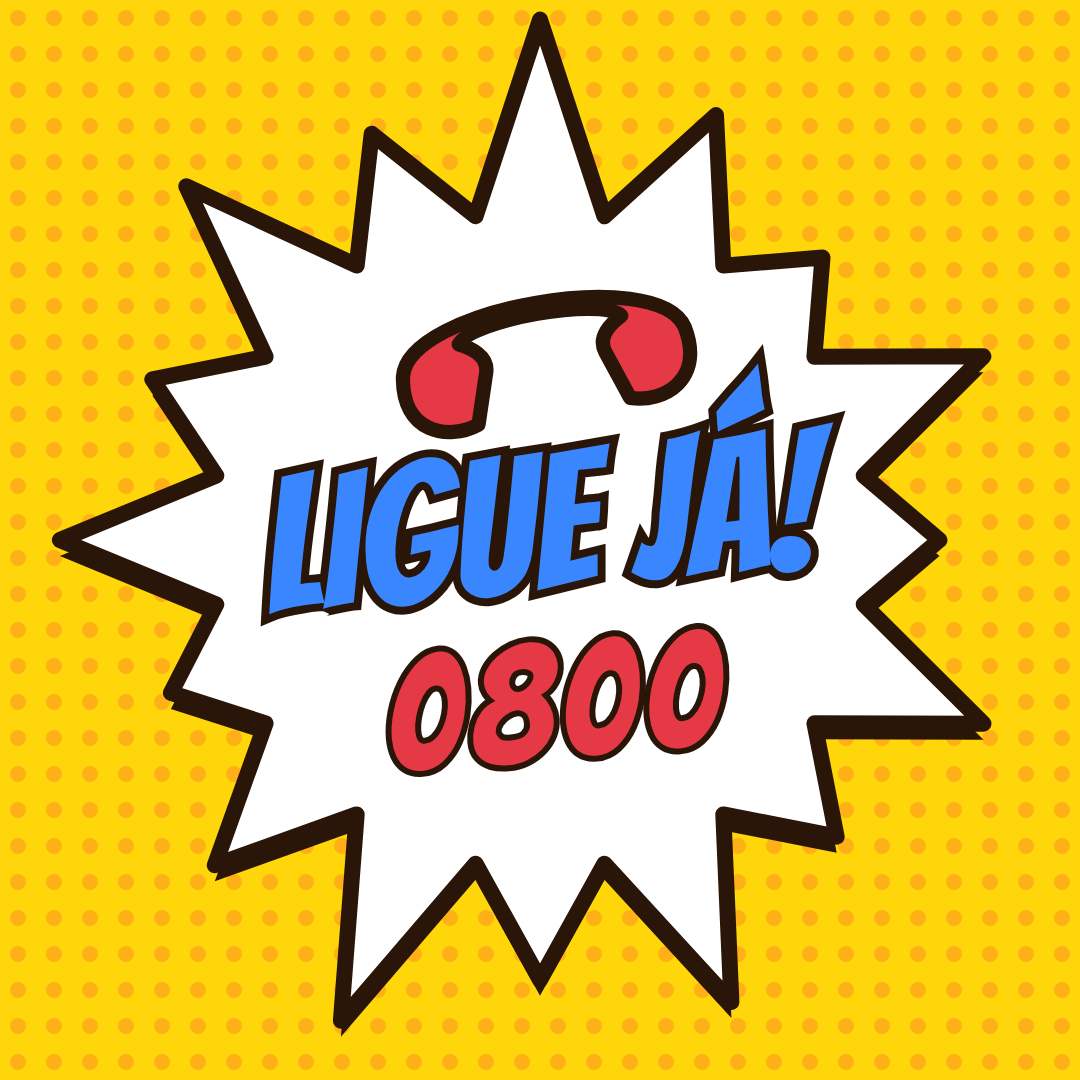
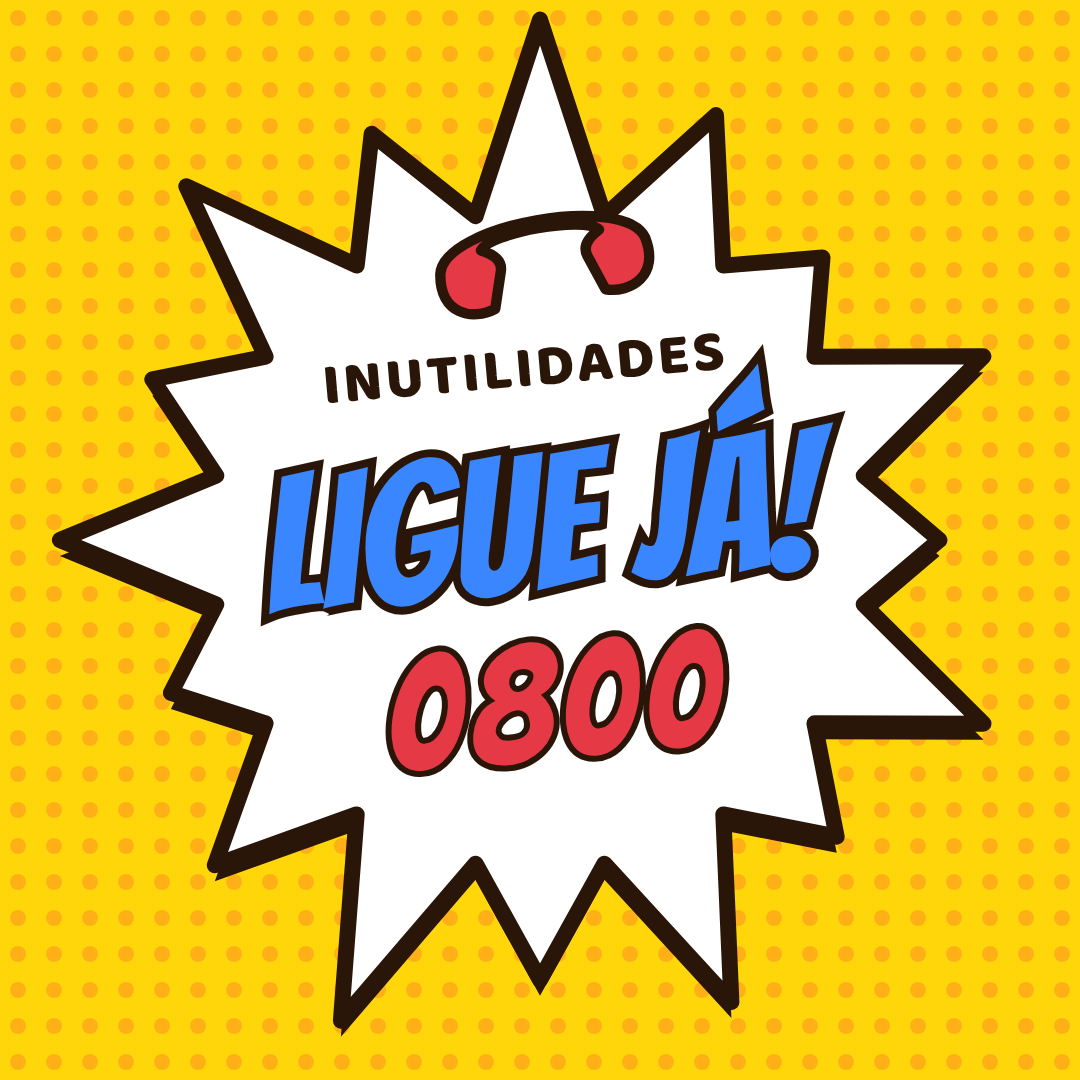
Coloca o nome INUTILIDADES nas ideias 13 a 16
Claude-Session: https://claude.ai/code/session_01P5X4gmKajvozoR9JGbtTdR

Changed region(s): [[0.275, 0.1833, 0.6722, 0.4278]]

diff --git a/perfil/ideias/ideias4.html b/perfil/ideias/ideias4.html
@@ -14,7 +14,7 @@ body{margin:0;background:#000}.card{width:1080px;height:1080px}svg{display:block
  <rect x="-340" y="-115" width="680" height="230" rx="28" fill="#2a1608" transform="translate(0 14)"/>
  <rect x="-340" y="-115" width="680" height="230" rx="28" fill="#fff" stroke="#2a1608" stroke-width="12"/>
  <text y="10" text-anchor="middle" font-family="Bangers" font-size="135" fill="#2a1608" letter-spacing="10">0800</text>
- <text y="90" text-anchor="middle" font-family="Baloo" font-weight="800" font-size="64" fill="#e63946" letter-spacing="4">INUTILIDADE</text>
+ <text y="90" text-anchor="middle" font-family="Baloo" font-weight="800" font-size="64" fill="#e63946" letter-spacing="4">INUTILIDADES</text>
 </g>
 </svg></div>
 
@@ -27,9 +27,14 @@ body{margin:0;background:#000}.card{width:1080px;height:1080px}svg{display:block
 <text x="540" y="680" text-anchor="middle" font-family="Bangers" font-size="170" fill="#2a1608" letter-spacing="10" transform="rotate(-8 540 520)">0800</text>
 <g class="burst" data-cx="790" data-cy="200" data-r1="92" data-r2="122" data-n="14" data-fill="#06d6a0" data-rot="12"></g>
 <text x="790" y="222" text-anchor="middle" font-family="Bangers" font-size="62" fill="#fff" stroke="#2a1608" stroke-width="8" paint-order="stroke" transform="rotate(12 790 200)">GRÁTIS</text>
-<g class="burst" data-cx="250" data-cy="850" data-r1="100" data-r2="135" data-n="14" data-fill="#fff" data-rot="-14"></g>
-<text x="250" y="845" text-anchor="middle" font-family="Bangers" font-size="58" fill="#e63946" transform="rotate(-14 250 850)">SÓ</text>
-<text x="250" y="900" text-anchor="middle" font-family="Bangers" font-size="58" fill="#e63946" transform="rotate(-14 250 850)">HOJE!</text>
+<g class="burst" data-cx="270" data-cy="210" data-r1="90" data-r2="120" data-n="14" data-fill="#fff" data-rot="-14"></g>
+<text x="270" y="205" text-anchor="middle" font-family="Bangers" font-size="54" fill="#e63946" transform="rotate(-14 270 210)">SÓ</text>
+<text x="270" y="255" text-anchor="middle" font-family="Bangers" font-size="54" fill="#e63946" transform="rotate(-14 270 210)">HOJE!</text>
+<g transform="translate(540 850) rotate(-5)">
+ <path d="M -400 -62 L 400 -62 L 355 0 L 400 62 L -400 62 L -355 0 Z" fill="#2a1608" transform="translate(0 12)"/>
+ <path d="M -400 -62 L 400 -62 L 355 0 L 400 62 L -400 62 L -355 0 Z" fill="#fff" stroke="#2a1608" stroke-width="12" stroke-linejoin="round"/>
+ <text y="24" text-anchor="middle" font-family="Baloo" font-weight="800" font-size="66" fill="#e63946" letter-spacing="3">INUTILIDADES</text>
+</g>
 </svg></div>
 
 <!-- 15: estilo gibi, retícula + fone -->
@@ -37,9 +42,10 @@ body{margin:0;background:#000}.card{width:1080px;height:1080px}svg{display:block
 <defs><pattern id="dots" width="36" height="36" patternUnits="userSpaceOnUse"><circle cx="18" cy="18" r="8" fill="#ff9f1c"/></pattern></defs>
 <rect width="1080" height="1080" fill="#ffd60a"/><rect width="1080" height="1080" fill="url(#dots)" opacity=".7"/>
 <g class="burst" data-cx="540" data-cy="540" data-r1="330" data-r2="470" data-n="16" data-fill="#fff" data-rot="0" data-jag="1"></g>
-<g transform="translate(540 330) rotate(170) scale(.55)" stroke="#2a1608" stroke-width="26" stroke-linejoin="round">
+<g transform="translate(540 240) rotate(170) scale(.4)" stroke="#2a1608" stroke-width="26" stroke-linejoin="round">
  <path d="M -260 -40 C -280 -140 -200 -170 -140 -150 L -110 -60 C -100 -30 -130 -10 -150 0 C -120 40 120 40 150 0 C 130 -10 100 -30 110 -60 L 140 -150 C 200 -170 280 -140 260 -40 C 230 80 -230 80 -260 -40 Z" fill="#e63946"/>
 </g>
+<text x="540" y="385" text-anchor="middle" font-family="Baloo" font-weight="800" font-size="58" fill="#2a1608" letter-spacing="3" transform="rotate(-5 540 540)">INUTILIDADES</text>
 <text x="540" y="590" text-anchor="middle" font-family="Bangers" font-size="190" fill="#3a86ff" stroke="#2a1608" stroke-width="16" paint-order="stroke" transform="rotate(-5 540 540)">LIGUE JÁ!</text>
 <text x="540" y="760" text-anchor="middle" font-family="Bangers" font-size="160" fill="#e63946" stroke="#2a1608" stroke-width="12" paint-order="stroke" letter-spacing="8" transform="rotate(-5 540 540)">0800</text>
 </svg></div>
@@ -49,7 +55,8 @@ body{margin:0;background:#000}.card{width:1080px;height:1080px}svg{display:block
 <rect width="1080" height="1080" fill="#7209b7"/>
 <g class="burst" data-cx="540" data-cy="520" data-r1="360" data-r2="470" data-n="24" data-fill="#ffd60a" data-rot="5"></g>
 <g class="burst" data-cx="540" data-cy="520" data-r1="270" data-r2="330" data-n="24" data-fill="#e63946" data-rot="12"></g>
-<text x="540" y="600" text-anchor="middle" font-family="Bangers" font-size="250" fill="#fff" stroke="#2a1608" stroke-width="16" paint-order="stroke" letter-spacing="6" transform="rotate(-4 540 520)">0800</text>
+<text x="540" y="395" text-anchor="middle" font-family="Baloo" font-weight="800" font-size="52" fill="#fff" letter-spacing="2" transform="rotate(-4 540 520)">INUTILIDADES</text>
+<text x="540" y="620" text-anchor="middle" font-family="Bangers" font-size="240" fill="#fff" stroke="#2a1608" stroke-width="16" paint-order="stroke" letter-spacing="6" transform="rotate(-4 540 520)">0800</text>
 <g transform="translate(540 820) rotate(-4)">
  <path d="M -410 -70 L 410 -70 L 360 0 L 410 70 L -410 70 L -360 0 Z" fill="#2a1608" transform="translate(0 14)"/>
  <path d="M -410 -70 L 410 -70 L 360 0 L 410 70 L -410 70 L -360 0 Z" fill="#06d6a0" stroke="#2a1608" stroke-width="12" stroke-linejoin="round"/>
